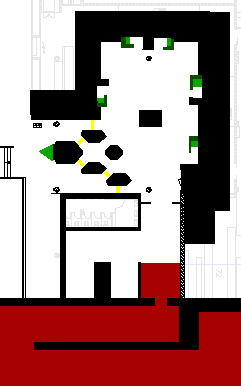
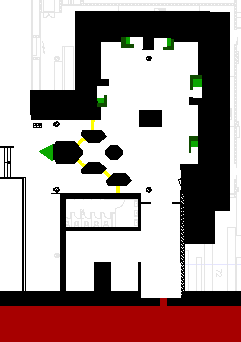
Düsenplan

diff --git a/parameters.m b/parameters.m
@@ -31,8 +31,8 @@ global ...
 
 % General
 
-agent_number = 50;
-dt = .05;
+agent_number = 120;
+dt = .1;
 noplot = false;
 video_on = true;
 log_on = true;
@@ -40,7 +40,7 @@ duration = 4000; % frames
 
 % Map
 meter = 15; % px/m, according to:
-map_file = 'grundrissplan2.png'; % Bitmap file for goals and walls
+map_file = 'grundrissplan4.png'; % Bitmap file for goals and walls
 
 % Map colors  % Value / Tolerance
 hue_goal = [0.3 0.1]; % green

diff --git a/plot_stat.m b/plot_stat.m
@@ -33,7 +33,7 @@ ylabel('speed [px/frame]');
 
 image( X_traces , 'CDataMapping','scaled' ); axis image;
 
-imwrite(X_traces/10, colormap('jet'), 'dens.png');
+imwrite(X_traces/2, colormap('jet'), 'dens.png');
 
 %% stuck agents
 
